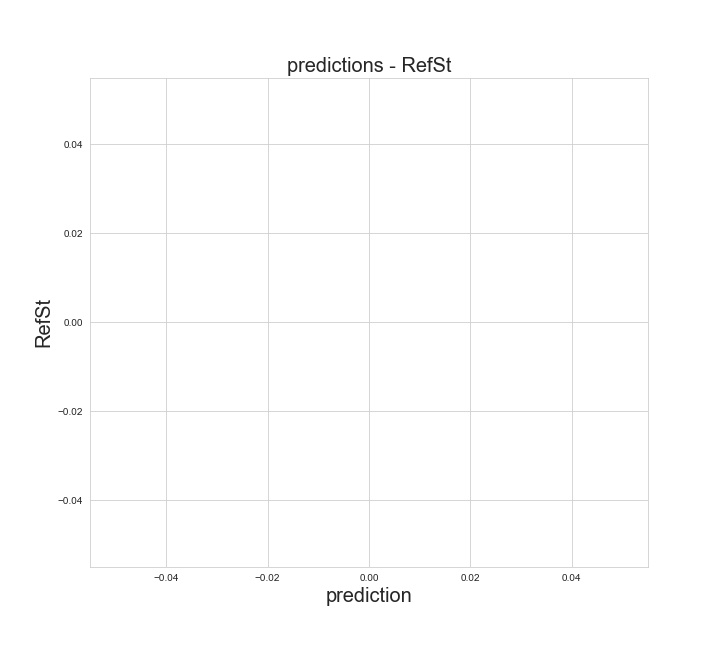
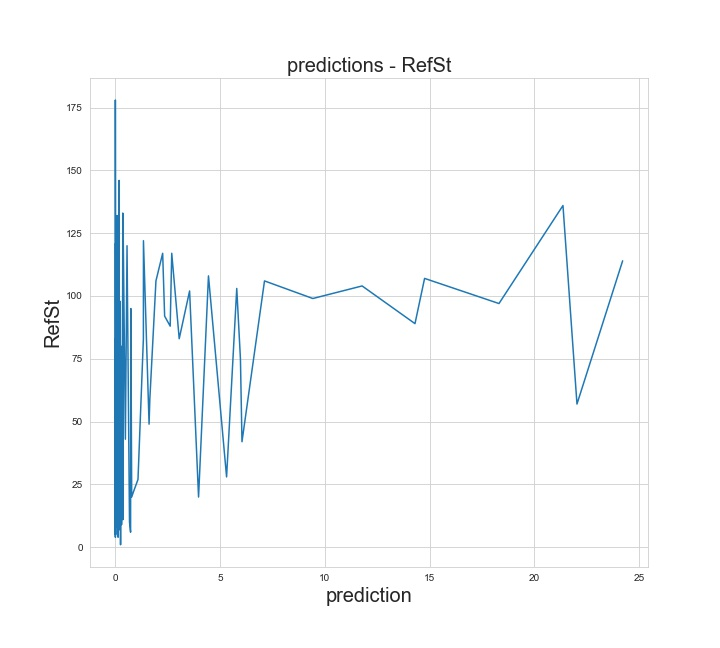
kernel regression without subset selection finished

diff --git a/Toml-part3/kernel.py b/Toml-part3/kernel.py
@@ -29,16 +29,15 @@ class KernelModel(Model):
         self.kernelType=kernelType
         self.model=None
         
-        if(modelType=="RBF"):
-            self.model=kr.KernelRidge(alpha=self.alpha,kernel=gp.RBF(1))
-        else:
-            self.model=kr.KernelRidge(alpha=self.alpha,kernel=self.kernelType)
-        
-        select=forwardSelection(self.model)
-        select.fit(trainingSet,trainingLabels)
-        self.featuresSelected=np.array(self.trainingSet.columns[select.get_support()])
-        self.trainingSet=self.makeDataset(self.featuresSelected,select.transform(self.trainingSet).T)
-        self.testSet=self.makeDataset(self.featuresSelected,select.transform(self.testSet).T)
+        self.model=kr.KernelRidge(alpha=self.alpha,kernel=self.kernelType)
+       
+        #self.model.fit(self.trainingSet,self.trainingLabels)
+        #select=forwardSelection(self.model)
+        #self.model.fit(self.trainingSet,self.trainingLabels)
+        #select.fit(trainingSet,trainingLabels)
+        #self.featuresSelected=np.array(self.trainingSet.columns[select.get_support()])
+        #self.trainingSet=self.makeDataset(self.featuresSelected,select.transform(self.trainingSet).T)
+        #self.testSet=self.makeDataset(self.featuresSelected,select.transform(self.testSet).T)
         
         
         self.model.fit(self.trainingSet,self.trainingLabels)

diff --git a/Toml-part3/mlr.py b/Toml-part3/mlr.py
@@ -25,7 +25,7 @@ predLabel="RefSt"
 print("\n\n\nLINEAR REGRESSION WITHOUT REGULARIZATION\n\n\n")
 data=sensorData()
 data=data.drop(["date"],axis=1)
-linearRegr=lm.LinearRegression(data,0.7,predLabel,alpha=5)
+linearRegr=lm.LinearRegression(data,0.7,predLabel,alpha=1)
 linearRegr.noRegularization()
 model=linearRegr.makeModel()
 res=model.predict()
@@ -35,7 +35,7 @@ model.plot()
 print("\n\n\nLINEAR REGRESSION WITH LASSO\n\n\n")
 data=sensorData()
 data=data.drop(["date"],axis=1)
-linearRegr=lm.LinearRegression(data,0.7,predLabel,alpha=25)
+linearRegr=lm.LinearRegression(data,0.7,predLabel,alpha=1)
 linearRegr.useLasso()
 model=linearRegr.makeModel()
 res=model.predict()
@@ -45,7 +45,7 @@ model.plot()
 print("\n\n\nLINEAR REGRESSION WITH RIDGE REGRESSION\n\n\n")
 data=sensorData()
 data=data.drop(["date"],axis=1)
-linearRegr=lm.LinearRegression(data,0.7,predLabel,alpha=250000)
+linearRegr=lm.LinearRegression(data,0.7,predLabel,alpha=1)
 linearRegr.useRidgeRegression()
 model=linearRegr.makeModel()
 res=model.predict()

diff --git a/Toml-part3/base.py b/Toml-part3/base.py
@@ -109,7 +109,7 @@ class Model:
         return self.getResults(prediction,truevalue)
     
     def getResults(self,prediction,actual):
-        dt=pd.DataFrame({"prediction":prediction,"actual":actual})
+        dt=pd.DataFrame({"prediction":prediction,self.trainingLabels.name:actual})
         score=self.model.score(self.testSet,actual)
         rsquare=skm.r2_score(actual, prediction)
         rmse=math.sqrt(skm.mean_squared_error(actual,prediction))
@@ -128,12 +128,9 @@ class Model:
             
     
     def plot(self):
-        preds=self.predictFromModel()
-        label=self.testLabels.name
-        print(label)
-        print(len(preds))
-        print(len(self.testLabels.values))
-        data=pd.DataFrame({"prediction":preds,label:self.trainingLabels})
+        data=self.predict().prediction
+        #data=pd.DataFrame({"prediction":preds,label:self.trainingLabels})
+        label=self.trainingLabels.name
         dp.lineplot(data, "prediction", label, "predictions - "+label,False,True)
         
     

diff --git a/Toml-part3/kernelsample.py b/Toml-part3/kernelsample.py
@@ -29,11 +29,20 @@ res=model.predict()
 res.printRes()
 model.plot()
 
+print("\n\n\nPOLYNOMIAL KERNEL RIDGE REGRESSION\n\n\n")
+data=sensorData()
+data=data.drop(["date"],axis=1)
+kernelRegr=KernelRegression(data,0.7,predictLabel)
+model=kernelRegr.makeModel("polynomial")
+res=model.predict()
+res.printRes()
+model.plot()
+
 print("\n\n\nRADIAL BASE FUNCTION KERNEL\n\n\n")
 data=sensorData()
 data=data.drop(["date"],axis=1)
 kernelRegr=KernelRegression(data,0.7,predictLabel)
-model=kernelRegr.makeModel("RBF")
+model=kernelRegr.makeModel("rbf")
 res=model.predict()
 res.printRes()
 model.plot()
